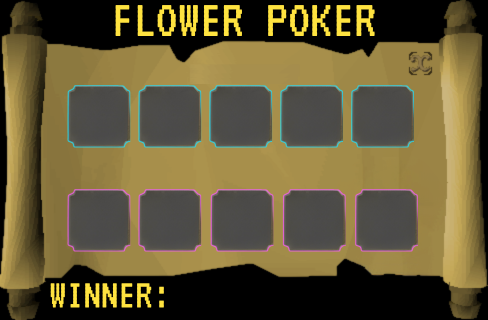
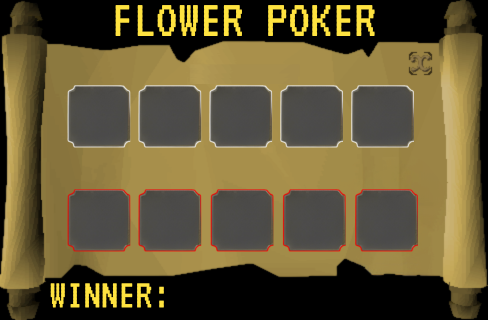
adding fp changes: new design

diff --git a/commands/fp/embeds/generateGif.js b/commands/fp/embeds/generateGif.js
@@ -152,10 +152,10 @@ module.exports = {
 				encoder.addFrame(ctx);
 
 				ctx.font = "25px Arial";
-				ctx.fillStyle = "#53C1BD";
+				ctx.fillStyle = "#ffffff";
 				ctx.textBaseline = "middle";
 				ctx.fillText(user1.tag, 75, 70);
-				ctx.fillStyle = "#DD5ED4";
+				ctx.fillStyle = "#ff0000";
 				ctx.fillText(user2.tag, 75, 177);
 
 				if (winner > 0) {
@@ -182,7 +182,7 @@ module.exports = {
 				encoder.addFrame(ctx);
 
 				ctx.font = "25px Arial";
-				ctx.fillStyle = `${winner.winner === 0 ? "#FF0000" : winner.winner === 1 ? "#53C1BD" : "#DD5ED4"}`;
+				ctx.fillStyle = `${winner.winner === 0 ? "#FFFF00" : winner.winner === 1 ? "#ffffff" : "#ff0000"}`;
 				ctx.textBaseline = "left";
 
 				ctx.fillText(`${winnerText === "Tie" ? "TIE" : `${winnerText}(${winner.hand})`}`, 170, 295);
